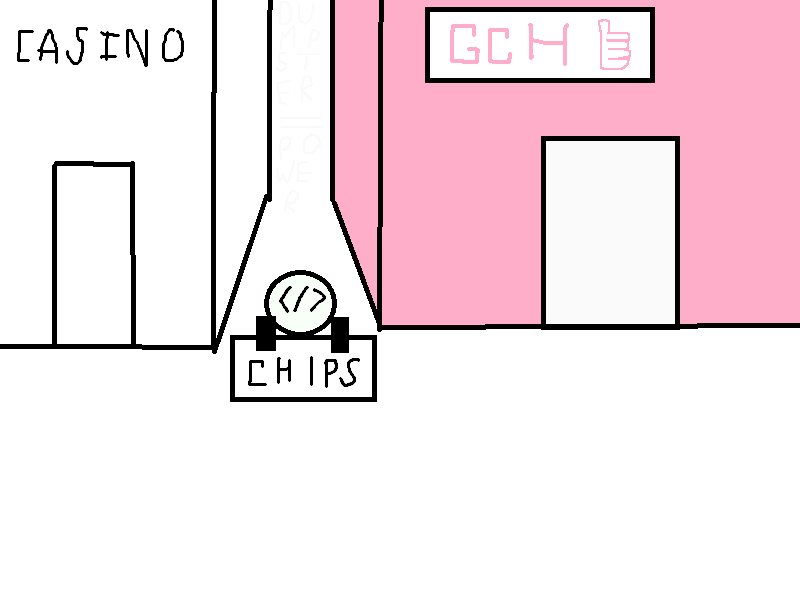
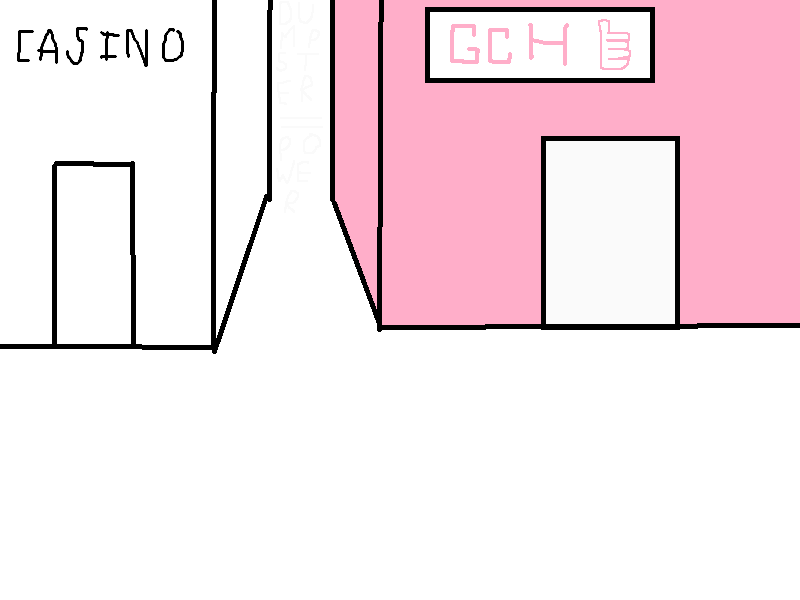
R.I.P. Chip Dealer
So the chip dealer's gone, because now you can get Casino Chips! They are in the maze which you can access with a 10% if you unlock the secret door or just press the button inside the secret room to access the maze.

Changed region(s): [[0.2812, 0.45, 0.4688, 0.69]]

diff --git a/main.py b/main.py
@@ -9,6 +9,7 @@ setup_dialogue, setup_game, animate, settings, samp)
 from game import process_game
 from non_changeable import save_folder
 import random
+import copy
 
 
 #os.environ["SDL_WINDOWS_DPI_AWARENESS"] = "permonitorv2"
@@ -182,8 +183,7 @@ interactions = {
     "neighborhood1": [(pg.Rect(196, 173, 67, 291), "1's_house")], ##
     'intersection2': [(pg.Rect(273, 97, 213, 243), "Dummy!")],
     "LCPE": [(pg.Rect(161, 0, 214, 139), "BrickWall")],
-    "DatCorner": [(pg.Rect(544, 136, 133, 189), "EnterGCH"),
-                  (pg.Rect(231, 270, 146, 131), "chips")], ##
+    "DatCorner": [(pg.Rect(544, 136, 133, 189), "EnterGCH")],
     "DatCornerR": [(pg.Rect(449, 168, 113, 168), "EnterRestuarant")], ##
     "DatCornerRB": [(pg.Rect(4, 90, 371, 259), "Dumpster")],
     "Arcade1": [(pg.Rect(96, 153, 115, 286), "ArcadeGame1"),
@@ -193,6 +193,7 @@ interactions = {
     "CasinoSlot": [(pg.Rect(297, 0, 196, 475), "CasinoSlot")],
     "CasinoBlackjack": [(pg.Rect(174, 84, 471, 332), "Blackjack")],
     "GCH_Trilator": [(pg.Rect(245, 94, 61, 172), "SecretDoor")],
+    "GCH_secret": [(pg.Rect(471, 50, 85, 75), "maze")]
 }
 
 images = {
@@ -575,13 +576,7 @@ while run:
                     savefile = f'data{rect+1+6*save_file_page}.json'
                     playing['home'] = float('-inf')
                     dialogue = def_dia()
-                    current = save(savefile, fallback=base)
-                    # if current == {}:
-                    #     save(savefile, default)
-                    #     current = default
-                    # if os.path.exists(savefile) and os.path.getsize(savefile) == 0:
-                    #     save(savefile, default)
-                    #     current = default
+                    current = copy.deepcopy(save(savefile, fallback=base))
                     for elem in base:
                         if current.get(elem, base[elem]) == base[elem]:
                             current[elem] = base[elem]
